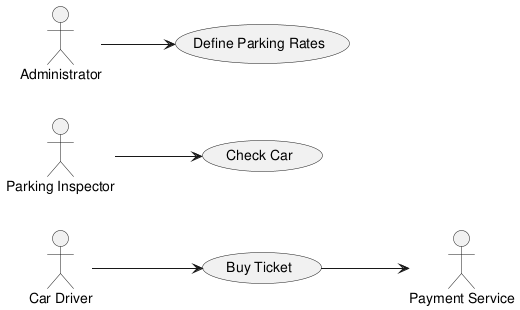
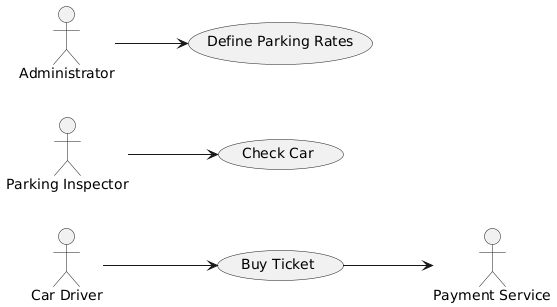
Squashed 'common/' changes from 3e64d93..dee4a31
dee4a31 installation fixed and docuemnted
18e8b86 docs REAME improved

git-subtree-dir: common
git-subtree-split: dee4a310976fa0d5bb6791e9317118289861b0bd

diff --git a/docs/README.md b/docs/README.md
@@ -1,49 +1,20 @@
 # BlueZone Application Documentation
 
-This documentation provides a comprehensive overview of the **BlueZone** project, including its use cases, architectural decisions, and key terms and concepts.
+This documentation provides a comprehensive overview of the **BlueZone** project, including its use cases, architectural decisions, and key concepts.
 
 ## Documentation Contents
 
-- **[Glossary](./glossary.md)**: Definitions of key terms and concepts used throughout the project documentation.
-- **[Use Cases](./use-cases/README.md)**: Detailed specifications of the various use cases supported by the system.
-- **[Architecture Decision Records (ADRs)](./adrs/README.md)**: Documentation of key architectural decisions made throughout the development process.
+- **[Installation](./installation.md)**: Instructions on how to include this repository in a language-specific project and use shared scripts.
+- **[Glossary](./glossary.md)**: Definitions of key terms and concepts used throughout the project.
+- **[Use Cases](./use-cases/README.md)**: Detailed specifications of the system's supported use cases.
+- **[Architecture Decision Records (ADRs)](./adrs/README.md)**: Documentation of key architectural decisions made during development.
+- **[Acceptance Tests](./features/README.md)**: A language- and technology-neutral acceptance test suite, derived from the [use cases](./use-cases/README.md), designed to verify consistent application behavior across different technology stacks.
 
 ## How to Use This Documentation
 
-- Start with the **Glossary** to familiarize yourself with the terminology.
-- Review the **Use Cases** to understand the specific scenarios the system addresses.
-- Explore the **ADRs** to learn about the architectural choices and rationale behind the project's design.
+- Begin with the **Glossary** to understand the core terminology.
+- Review the **Use Cases** to explore the system's supported scenarios.
+- Dive into the **Acceptance Tests** to see how expected behaviors are validated.
+- Explore the **ADRs** to learn about the project's architectural decisions and their rationale.
 
-For a high-level overview of the project goals and details, please see the [top-level README](../README.md).
-
-## Use Case Model
-
-The formal use case model of the Blue Zone application is provided in the [use-cases README](./docs/use-cases/README.md). This document details the application's core use cases, including their actors, flows, and alternative scenarios.
-
-**TODO: move to the first ADR**
-You can also view the UML class diagram illustrating this architecture in the context of the Blue Zone application [here](./docs/diagrams/bluezone-ports-and-adapters.png).
-**TODO: provide an updated UML diagram**
-
-## Acceptance Tests
-
-Acceptance test suite for the BlueZone application, derived from its [use-cases](./docs/use-cases/README.md), is specifed in a programming language and technology neutral form thus allowing to ensure application behaviour while varying underlying technology choices.
-
-## Installation
-
-This is reposiotry is supposed to be included in a programming language specific repository as a [github subtree](https://docs.github.com/en/get-started/using-git/about-git-subtree-merges) using the following command:
-
-```shell
-# Add as subtree named 'common'
-git subtree add --prefix=common https://github.com/asterkin/bluezone-app.git main
-```
-
-To install system modules, common for all programming languages (e.g. UML diagrams generation), invoke:
-
-```shell
-./scripts/install.sh
-```
-
-## UML Diagrams Generation
-
-The Makefile included in this repository provides a generic solution for generating UML diagrams from the [PlantUML](https://pdf.plantuml.net/1.2021.1/PlantUML_Language_Reference_Guide_en.pdf) specification source file.
-***TODO: guidelines how to use it the language-specific projects***
+For a high-level introduction and project overview, refer to the [top-level README](../README.md).

diff --git a/README.md b/README.md
@@ -1,22 +1,38 @@
 # bluezone-app
 
-This repository contains programming language-neutral specifications and assets for the BlueZone sample application, demonstrating the "Ports and Adapters" architecture pattern featured in the ["Hexagonal Architecture Explained"](https://store7710079.company.site/Hexagonal-Architecture-Explained-p655931616) book.
+[![License: MIT](https://img.shields.io/badge/license-MIT-blue.svg)](./LICENSE)
+[![Docs](https://img.shields.io/badge/docs-📘%20available-blue)](./docs/README.md)
+[![Last Commit](https://img.shields.io/github/last-commit/asterkin/bluezone-app.svg)](https://github.com/asterkin/bluezone-app/commits/main)
+![Platform](https://img.shields.io/badge/platform-Linux-green)
 
-This pattern, also known as **Hexagonal Architecture**, focuses on the clear separation of concerns by defining "ports" (interfaces) that the core application logic uses to interact with the external world. These ports are then connected to various external systems or technologies using "adapters".
+This repository contains **programming language-neutral specifications and assets** for the BlueZone sample application, demonstrating the “Ports and Adapters” architecture pattern featured in the [*Hexagonal Architecture Explained*](https://store7710079.company.site/Hexagonal-Architecture-Explained-p655931616) book.
 
-For a deeper understanding of **Hexagonal Architecture**, please refer to the book ["Hexagonal Architecture Explained"](https://store7710079.company.site/Hexagonal-Architecture-Explained-p655931616) by Alistair Cockburn and Juan Manuel Garrido de Paz.
+This pattern—also known as **Hexagonal Architecture**—promotes a clear separation of concerns by defining **ports** (interfaces) through which the core application logic interacts with the external world. These ports are then connected to external systems or technologies via **adapters**.
 
-Specific technology adapters implemented in various programming languages are implemented in separate repositories with the following naming convention: `bluezone-app-<language>` (e.g., `bluezone-app-py`, `bluezone-app-ts`), enabling flexibility in selecting or switching to different technology stacks.
+For a deeper understanding of this architecture, refer to the book [*Hexagonal Architecture Explained*](https://store7710079.company.site/Hexagonal-Architecture-Explained-p655931616) by Alistair Cockburn and Juan Manuel Garrido de Paz.
 
-**TODO: provide a detailed list of language-specific repositories**
+---
 
-The **BlueZone Sample Application** project aims to suggest, without enforcing, a canonical structure for non-trivial applications built with the "Ports and Adapters" architecture pattern.
+## Language-Specific Implementations
 
-For more detailed information, please refer to the [documentation](./docs/README.md).
+Technology-specific adapters and implementations of the BlueZone application are provided in separate repositories:
+
+- [bluezone-app-py](https://github.com/asterkin/bluezone-app-py) – Python
+- [bluezone-app-ts](https://github.com/asterkin/bluezone-app-ts) – TypeScript
+
+> **TODO**: Expand this list as additional implementations become available.
+
+This structure enables flexibility in choosing or switching between technology stacks.
+
+---
+
+The **BlueZone Sample Application** project aims to suggest—without enforcing—a canonical structure for non-trivial applications built using the “Ports and Adapters” architecture pattern.
+
+For more detailed information, see the [documentation](./docs/README.md).
 
 ## License
 
-This project is licensed under the MIT License - see the [LICENSE](./LICENSE) file for details.
+This project is licensed under the MIT License. See the [LICENSE](./LICENSE) file for details.
 
 ## Contributing
 
@@ -24,6 +40,4 @@ Contributions are welcome! Please feel free to submit issues, fork the repositor
 
 ## Contact
 
-For any questions or feedback, feel free to contact the author, Asher Sterkin, at [email redacted].
-
----
+For any questions or feedback, contact the author, Asher Sterkin, at [[email redacted]](mailto:[email redacted]).

diff --git a/docs/installation.md b/docs/installation.md
@@ -1,0 +1,29 @@
+# Installation
+
+This repository is intended to be included in a language-specific project as a [GitHub subtree](https://docs.github.com/en/get-started/using-git/about-git-subtree-merges), using the following command:
+
+```shell
+git subtree add --prefix=common https://github.com/asterkin/bluezone-app.git main
+```
+
+## Installing Common Tools
+
+To install system-wide dependencies common to all language-specific projects (e.g., UML diagram generation), run:
+
+```shell
+./common/scripts/install.sh
+```
+
+## Updating the Subtree
+
+To pull the latest version of this repository into your language-specific project:
+
+```shell
+./common/scripts/pull.sh
+```
+
+## UML Diagram Generation
+
+The [Makefile](../Makefile) included in this repository provides a reusable setup for generating UML diagrams from [PlantUML](https://pdf.plantuml.net/1.2021.1/PlantUML_Language_Reference_Guide_en.pdf) source files.
+
+> **TODO**: Add guidelines for how to use the Makefile in language-specific projects.